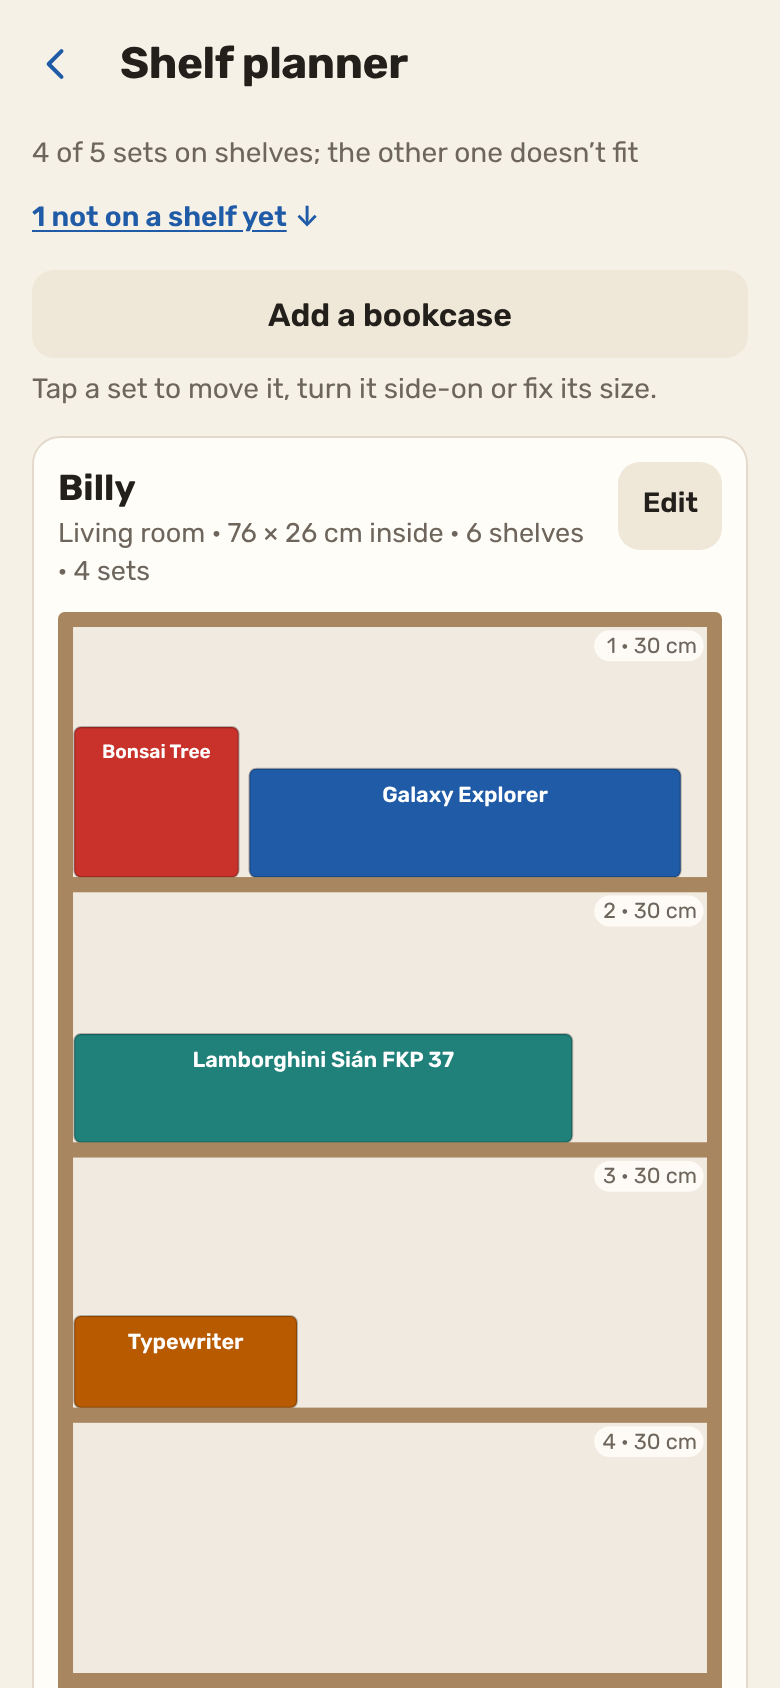
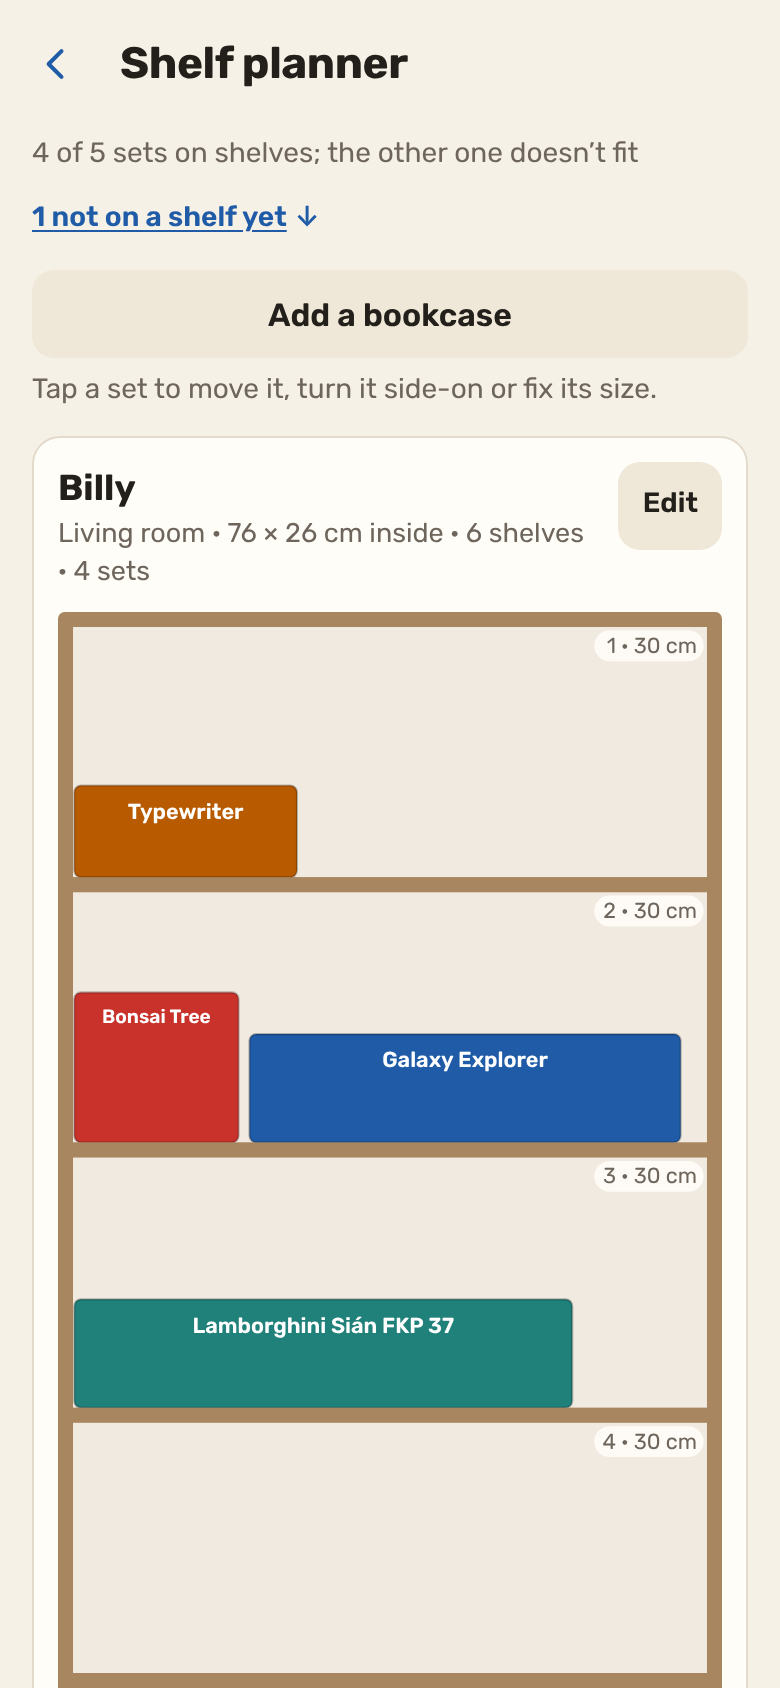
Redraw the Shelf planner's picture for Fit from eye level
Goes with "Fit fills the top shelf first". The README's picture of the
planner after Fit now has the sets where Fit puts them: the Bonsai Tree
and the Galaxy Explorer on the second shelf, the Lamborghini on the
third and the Typewriter on the top one. Its description says the same.

Claude-Session: https://claude.ai/code/session_01PQbLNUuiByHEfTthSk1RFs

Changed region(s): [[0.0923, 0.5853, 0.8923, 0.6777], [0.0923, 0.4313, 0.8923, 0.5237], [0.0923, 0.7701, 0.7385, 0.8318]]

diff --git a/README.md b/README.md
@@ -60,7 +60,7 @@ The skill has to work on its own once it's uploaded to Claude, so it carries a c
 
 ## Shelf planner
 
-<p align="center"><img src="docs/phone-shelves.png" alt="The Shelf planner after Fit: a Billy drawn from the front with the Bonsai Tree and the Galaxy Explorer on its top shelf, the Lamborghini on the second and the Typewriter on the third; a line above says 4 of 5 sets are on shelves, and one is not on a shelf yet" width="250"></p>
+<p align="center"><img src="docs/phone-shelves.png" alt="The Shelf planner after Fit: a Billy drawn from the front with the Typewriter on its top shelf, the Bonsai Tree and the Galaxy Explorer on the second and the Lamborghini on the third; a line above says 4 of 5 sets are on shelves, and one is not on a shelf yet" width="250"></p>
 
 - **Bookcases**: add each one with its inside width and depth and the clear height of each shelf, top shelf first, a box for each (presets for an IKEA Billy, a narrow Billy and a Kallax column; a Billy's shelves move, so its preset is six even spaces of about 30 cm to measure against yours). Each is drawn from the front, to scale, with your sets on it. Sizes are in cm; one typed with `in` or `"` after it is worked out and the message says so.
 - **Fit the sets onto the shelves** places every built or partly built set that isn't on a shelf yet. It tries eight ways of taking them, tallest first to begin with, and keeps the one that gets most sets onto shelves. Each set goes on the shortest shelf that takes it with 1 cm clear above it, facing out, or side-on when no shelf of that height takes it facing out. A set with a room in My sets goes on a bookcase in that room when one takes it, and wherever it fits when none does. Shelves that suit a set equally are filled from eye level (about 1.4 m up) outwards, so the top and bottom shelves fill last. Tick **Keep themes together** under the button and a set goes beside one of its own theme first, then on an empty shelf, which can spread the sets over more shelves; the tick is remembered on that device. By hand a set can still stand on a shelf exactly its height. Sets already placed stay put, and the message has Undo. Anything that doesn't fit says why (too tall, no room above it, too deep, too wide, no room left), and one line adds the reasons up, with about how much more shelf the sets short of room would take. **Take every set off** in a bookcase's sheet starts it again. Under the count at the top, **not on a shelf yet** and **need a size** go to those two lists, which can be a long way down the page.
